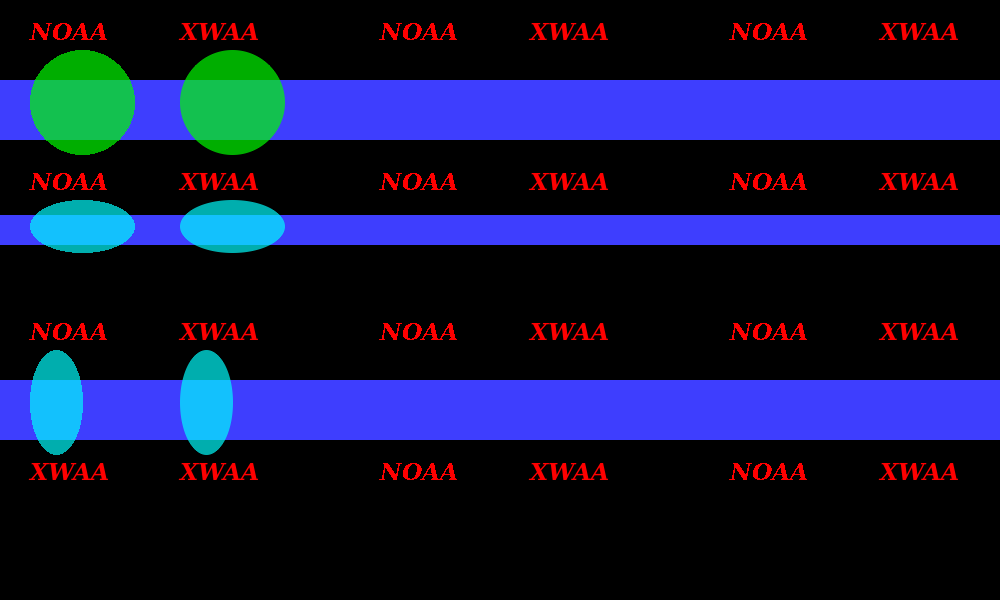
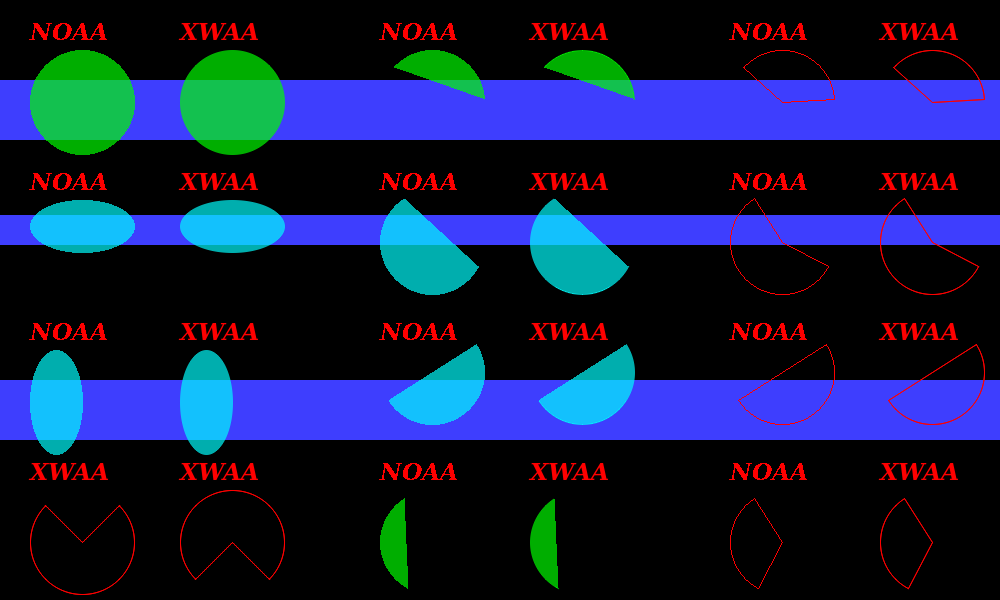
Working on fillArc

diff --git a/src/Pt-Gfx/ImagePainter2_Arc.cpp b/src/Pt-Gfx/ImagePainter2_Arc.cpp
@@ -65,6 +65,9 @@ void ImagePainter2::fillArc( const PointF& topLeft, const SizeF& size, float deg
 
     fai.antiAlias = (_rasterizer->antiAliasingMode() != AntiAliasingMode::None);
 
+    fai.degBegin  = degBegin;
+    fai.degEnd    = degEnd;
+
     fai.minX      = topLeft.x();
     fai.minY      = topLeft.y();
     fai.radX      = size.width () / 2;
@@ -78,7 +81,7 @@ void ImagePainter2::fillArc( const PointF& topLeft, const SizeF& size, float deg
     fai.quartersY = round( fai.radY2 * fastInvSqrt(fai.radX2 + fai.radY2) );
 
     // Find the exact coordinate of the begin and end point
-    arcUtil_findExactBegEndPointsCoordinate(fai, degBegin, degEnd);
+    arcUtil_findExactBegEndPointsCoordinate(fai);
 
     // Draw based on the mode
     switch(arcMode) {
@@ -118,6 +121,13 @@ void ImagePainter2::fillArcChordImpl(FilledArcInfo& fai)
     for(Scanlines::const_iterator it = scanlines.begin(); it != scanlines.end(); ++it) {
         _rasterizer->fillOneScanlineNoAA(it->second.from, it->second.to, it->first, fai.minX, fai.minY);
     }
+
+    // Exit here if we are not doing anti-aliasing
+    if(!fai.antiAlias) return;
+
+    // Draw the anti-aliased circumference pixels
+    arcUtil_drawCircumferencePixels(fai, scanlines);
+
 }
 
 void ImagePainter2::fillArcPieImpl(FilledArcInfo& fai)
@@ -132,15 +142,15 @@ void ImagePainter2::fillArcPieImpl(FilledArcInfo& fai)
     arcUtil_detXWLineDirection(line2, fai.x2, fai.y2, fai.ctrX, fai.ctrY);
 }
 
-void ImagePainter2::arcUtil_findExactBegEndPointsCoordinate(FilledArcInfo& fai, float degBegin, float degEnd)
+void ImagePainter2::arcUtil_findExactBegEndPointsCoordinate(FilledArcInfo& fai)
 {
     // Calculate the approximate coordinate of the point which is located at the begin angle
-    const Pt::int32_t bx = round(fai.ctrX + fai.radX * fastCos(degBegin * Pt::Pi / 180));
-    const Pt::int32_t by = round(fai.ctrY - fai.radY * fastSin(degBegin * Pt::Pi / 180)); // Sign inversion due to differences between cartesian and computer coordinate systems
+    const Pt::int32_t bx = round(fai.ctrX + fai.radX * fastCos(fai.degBegin * Pt::Pi / 180));
+    const Pt::int32_t by = round(fai.ctrY - fai.radY * fastSin(fai.degBegin * Pt::Pi / 180)); // Sign inversion due to differences between cartesian and computer coordinate systems
 
     // Calculate the approximate coordinate of the point which is located at the end angle
-    const Pt::int32_t ex = round(fai.ctrX + fai.radX * fastCos(degEnd   * Pt::Pi / 180));
-    const Pt::int32_t ey = round(fai.ctrY - fai.radY * fastSin(degEnd   * Pt::Pi / 180)); // Sign inversion due to differences between cartesian and computer coordinate systems
+    const Pt::int32_t ex = round(fai.ctrX + fai.radX * fastCos(fai.degEnd   * Pt::Pi / 180));
+    const Pt::int32_t ey = round(fai.ctrY - fai.radY * fastSin(fai.degEnd   * Pt::Pi / 180)); // Sign inversion due to differences between cartesian and computer coordinate systems
 
     // Used for finding the exact coordinate of the points which are located at the begin and end angle
     Pt::int32_t x1d = MAXIMUM_COORD; // Begin point
@@ -249,7 +259,7 @@ void ImagePainter2::arcUtil_runXWLineAlgorithm(XWLineData& dst, Pt::int32_t x1, 
     }
 }
 
-void ImagePainter2::arcUtil_genScanlinesForChord(FilledArcInfo& fai, XWLineData& xwLine, Scanlines& scanlines)
+void ImagePainter2::arcUtil_genScanlinesForChord(const FilledArcInfo& fai, XWLineData& xwLine, Scanlines& scanlines)
 {
     // Find the line's minimum and maximum Y coordinates
     Pt::int32_t lineMinY, lineMaxY;
@@ -369,6 +379,93 @@ void ImagePainter2::arcUtil_cropAndStoreScanlineForChord(XWLineData& xwLine, Sca
                 if( xlc < sit->second.from ) sit->second.from = xlc;
                 if( xrc > sit->second.to   ) sit->second.to   = xrc;
             }
+        }
+    }
+}
+
+void ImagePainter2::arcUtil_drawCircumferencePixels(FilledArcInfo& fai, const Scanlines& scanlinesRef)
+{
+    // Top and bottom halves
+    for(Pt::int32_t x = 0; x <= fai.quartersX; ++x) {
+        // Calculate the Y coordinate and alpha
+        const float       y     = fai.radY * fastSqrt(1 - (float) x * x / fai.radX2);
+        const Pt::int32_t fly   = floor(y);
+        const float       error = y - fly;
+        const Pt::uint8_t alpha = round(error * 255);
+        // Draw the first part of the pixels
+        const Pt::int32_t x1  = fai.ctrX - x;
+        const Pt::int32_t x2  = fai.ctrX + x;
+        const Pt::int32_t y10 = fai.ctrY - fly;
+        const Pt::int32_t y20 = fai.ctrY + fly;
+        Scanlines::const_iterator it10 = scanlinesRef.find(y10);
+        Scanlines::const_iterator it20 = scanlinesRef.find(y20);
+        if( ( it10 == scanlinesRef.end() || (it10->second.from > x1 && it10->second.to < x2) ) ||
+            ( it20 == scanlinesRef.end() || (it20->second.from > x1 && it20->second.to < x2) )
+        ) {
+            const bool mask[4] = {
+                pointIsInsideArcDegRange(x1, y10, fai.ctrX, fai.ctrY, fai.degBegin, fai.degEnd),
+                pointIsInsideArcDegRange(x1, y20, fai.ctrX, fai.ctrY, fai.degBegin, fai.degEnd),
+                pointIsInsideArcDegRange(x2, y10, fai.ctrX, fai.ctrY, fai.degBegin, fai.degEnd),
+                pointIsInsideArcDegRange(x2, y20, fai.ctrX, fai.ctrY, fai.degBegin, fai.degEnd)
+            };
+            _rasterizer->fill4Pixels(x1, y10, x2, y20, fai.minX, fai.minY, 255 - alpha, mask);
+        }
+        // Draw the second part of the pixels
+        const Pt::int32_t y11 = fai.ctrY - fly - 1;
+        const Pt::int32_t y21 = fai.ctrY + fly + 1;
+        Scanlines::const_iterator it11 = scanlinesRef.find(y11);
+        Scanlines::const_iterator it21 = scanlinesRef.find(y21);
+        if( ( it11 == scanlinesRef.end() || (it11->second.from > x1 && it11->second.to < x2) ) ||
+            ( it21 == scanlinesRef.end() || (it21->second.from > x1 && it21->second.to < x2) )
+        ) {
+            const bool mask[4] = {
+                pointIsInsideArcDegRange(x1, y11, fai.ctrX, fai.ctrY, fai.degBegin, fai.degEnd),
+                pointIsInsideArcDegRange(x1, y21, fai.ctrX, fai.ctrY, fai.degBegin, fai.degEnd),
+                pointIsInsideArcDegRange(x2, y11, fai.ctrX, fai.ctrY, fai.degBegin, fai.degEnd),
+                pointIsInsideArcDegRange(x2, y21, fai.ctrX, fai.ctrY, fai.degBegin, fai.degEnd)
+            };
+            _rasterizer->fill4Pixels(x1, y11, x2, y21, fai.minX, fai.minY, alpha, mask);
+        }
+    }
+
+    // Left and right halves
+    for(Pt::int32_t y = 0; y <= fai.quartersY; ++y) {
+        // Calculate the X coordinate and alpha
+        const float       x     = fai.radX * fastSqrt(1 - (float) y * y / fai.radY2);
+        const Pt::int32_t flx   = floor(x);
+        const float       error = x - flx;
+        const Pt::uint8_t alpha = round(error * 255);
+        // Draw the first part of the pixels
+        const Pt::int32_t x10 = fai.ctrX - flx;
+        const Pt::int32_t x20 = fai.ctrX + flx;
+        const Pt::int32_t y1  = fai.ctrY - y;
+        const Pt::int32_t y2  = fai.ctrY + y;
+        Scanlines::const_iterator it1 = scanlinesRef.find(y1);
+        Scanlines::const_iterator it2 = scanlinesRef.find(y2);
+        if( ( it1 == scanlinesRef.end() || (it1->second.from > x10 && it1->second.to < x20) ) ||
+            ( it2 == scanlinesRef.end() || (it2->second.from > x10 && it2->second.to < x20) )
+        ) {
+            const bool mask[4] = {
+                pointIsInsideArcDegRange(x10, y1, fai.ctrX, fai.ctrY, fai.degBegin, fai.degEnd),
+                pointIsInsideArcDegRange(x10, y2, fai.ctrX, fai.ctrY, fai.degBegin, fai.degEnd),
+                pointIsInsideArcDegRange(x20, y1, fai.ctrX, fai.ctrY, fai.degBegin, fai.degEnd),
+                pointIsInsideArcDegRange(x20, y2, fai.ctrX, fai.ctrY, fai.degBegin, fai.degEnd)
+            };
+            _rasterizer->fill4Pixels(x10, y1, x20, y2, fai.minX, fai.minY, 255 - alpha, mask);
+        }
+        // Draw the second part of the pixels
+        const Pt::int32_t x11 = fai.ctrX - flx - 1;
+        const Pt::int32_t x21 = fai.ctrX + flx + 1;
+        if( ( it1 == scanlinesRef.end() || (it1->second.from > x11 && it1->second.to < x21) ) ||
+            ( it2 == scanlinesRef.end() || (it2->second.from > x11 && it2->second.to < x21) )
+        ) {
+            const bool mask[4] = {
+                pointIsInsideArcDegRange(x11, y1, fai.ctrX, fai.ctrY, fai.degBegin, fai.degEnd),
+                pointIsInsideArcDegRange(x11, y2, fai.ctrX, fai.ctrY, fai.degBegin, fai.degEnd),
+                pointIsInsideArcDegRange(x21, y1, fai.ctrX, fai.ctrY, fai.degBegin, fai.degEnd),
+                pointIsInsideArcDegRange(x21, y2, fai.ctrX, fai.ctrY, fai.degBegin, fai.degEnd)
+            };
+            _rasterizer->fill4Pixels(x11, y1, x21, y2, fai.minX, fai.minY, alpha, mask);
         }
     }
 }

diff --git a/include/Pt/Gfx/ImagePainter2.h b/include/Pt/Gfx/ImagePainter2.h
@@ -136,6 +136,9 @@ class PT_GFX_API ImagePainter2 : public Painter
         struct FilledArcInfo {
             bool        antiAlias;    // A flag that indicate if the arc will be anti-aliased
 
+            float       degBegin;     // Begin angle
+            float       degEnd;       // End angle
+
             Pt::int32_t minX, minY;   // Top-left coordinate of the arc
             Pt::int32_t ctrX, ctrY;   // Center coordinate of the arc
             Pt::int32_t radX, radY;   // Radius of the arc
@@ -186,12 +189,14 @@ class PT_GFX_API ImagePainter2 : public Painter
         static inline bool pointIsInsideArcDegRange(Pt::int32_t x, Pt::int32_t y, Pt::int32_t ctrX, Pt::int32_t ctrY, float degBegin, float degEnd);
 
         // Arc-related helper functions
-        static void arcUtil_findExactBegEndPointsCoordinate(FilledArcInfo& fai, float degBegin, float degEnd);
+        static inline void arcUtil_detXWLineDirection(XWLineData& xwLineData, Pt::int32_t x1, Pt::int32_t y1, Pt::int32_t x2, Pt::int32_t y2);
+
+        static void arcUtil_findExactBegEndPointsCoordinate(FilledArcInfo& fai);
         static void arcUtil_runXWLineAlgorithm(XWLineData& dst, Pt::int32_t x1, Pt::int32_t y1, Pt::int32_t x2, Pt::int32_t y2);
-        static void arcUtil_genScanlinesForChord(FilledArcInfo& fai, XWLineData& xwLine, Scanlines& scanlines);
+        static void arcUtil_genScanlinesForChord(const FilledArcInfo& fai, XWLineData& xwLine, Scanlines& scanlines);
         static void arcUtil_cropAndStoreScanlineForChord(XWLineData& xwLine, Scanlines& scanlines, Pt::int32_t lineMinY, Pt::int32_t lineMaxY, Pt::int32_t xl, Pt::int32_t xr, Pt::int32_t yt, Pt::int32_t yb);
 
-        static inline void arcUtil_detXWLineDirection(XWLineData& xwLineData, Pt::int32_t x1, Pt::int32_t y1, Pt::int32_t x2, Pt::int32_t y2);
+        void arcUtil_drawCircumferencePixels(FilledArcInfo& fai, const Scanlines& scanlinesRef);
 
         // Drawing functions
         virtual void drawOnePixelSolidEllipseArcImpl(const PointF& topLeft, const SizeF& size, float degBegin, float degEnd, const ArcMode& arcMode);
@@ -375,40 +380,6 @@ inline void ImagePainter2::arcUtil_detXWLineDirection(XWLineData& xwLineData, Pt
     xwLineData.faceL = cx < 0;
     xwLineData.faceR = cx > 0;
 }
-
-
-/*
-inline void ImagePainter2::arcUtilMarkOutsideScanlinesRL(Pt::int32_t x1, Pt::int32_t y1, Pt::int32_t x2, Pt::int32_t y2, bool faceL, bool faceR, bool faceT, bool faceB, Scanlines& scanlines)
-{
-    // Mark the all scanlines to the left and right side that will be completely outside the shape
-    const Pt::int32_t xlMin = std::min(x1, x2);
-    const Pt::int32_t xlMax = std::max(x1, x2);
-
-    // Smaller Y
-    for(Scanlines::iterator it = scanlines.begin(); it != scanlines.lower_bound(std::min(y1, y2) + 1); ++it) {
-        if(faceL && it->second.to < xlMin) {
-            it->second.from =  Painter::MaximumCoordinate;
-            it->second.to   = -Painter::MaximumCoordinate;
-        }
-        if(faceR && it->second.from > xlMax) {
-            it->second.from =  Painter::MaximumCoordinate;
-            it->second.to   = -Painter::MaximumCoordinate;
-        }
-    }
-
-    // Larger Y
-    for(Scanlines::iterator it = scanlines.upper_bound(std::max(y1, y2) - 1); it != scanlines.end(); ++it) {
-        if(faceL && it->second.to < xlMin) {
-            it->second.from =  Painter::MaximumCoordinate;
-            it->second.to   = -Painter::MaximumCoordinate;
-        }
-        if(faceR && it->second.from > xlMax) {
-            it->second.from =  Painter::MaximumCoordinate;
-            it->second.to   = -Painter::MaximumCoordinate;
-        }
-    }
-}
-*/
 
 
 } // namespace

diff --git a/src/Pt-Gfx/tests/ImagePainterTest2.cpp b/src/Pt-Gfx/tests/ImagePainterTest2.cpp
@@ -48,8 +48,8 @@ using namespace Pt::Gfx;
 #define DO_BENCHMARKING 1
 
 // Detailed-test enable settings for Pt-Gfx
-#define TEST_SOURCECOPY                         1
-#define TEST_SOURCEOVER                         0
+#define TEST_SOURCECOPY                         0
+#define TEST_SOURCEOVER                         1
 
 #define TEST_DRAW_LINE_AND_TEXT                 0
 #define TEST_DRAW_RECTANGLES_FILLED_RECTANGLES  0
